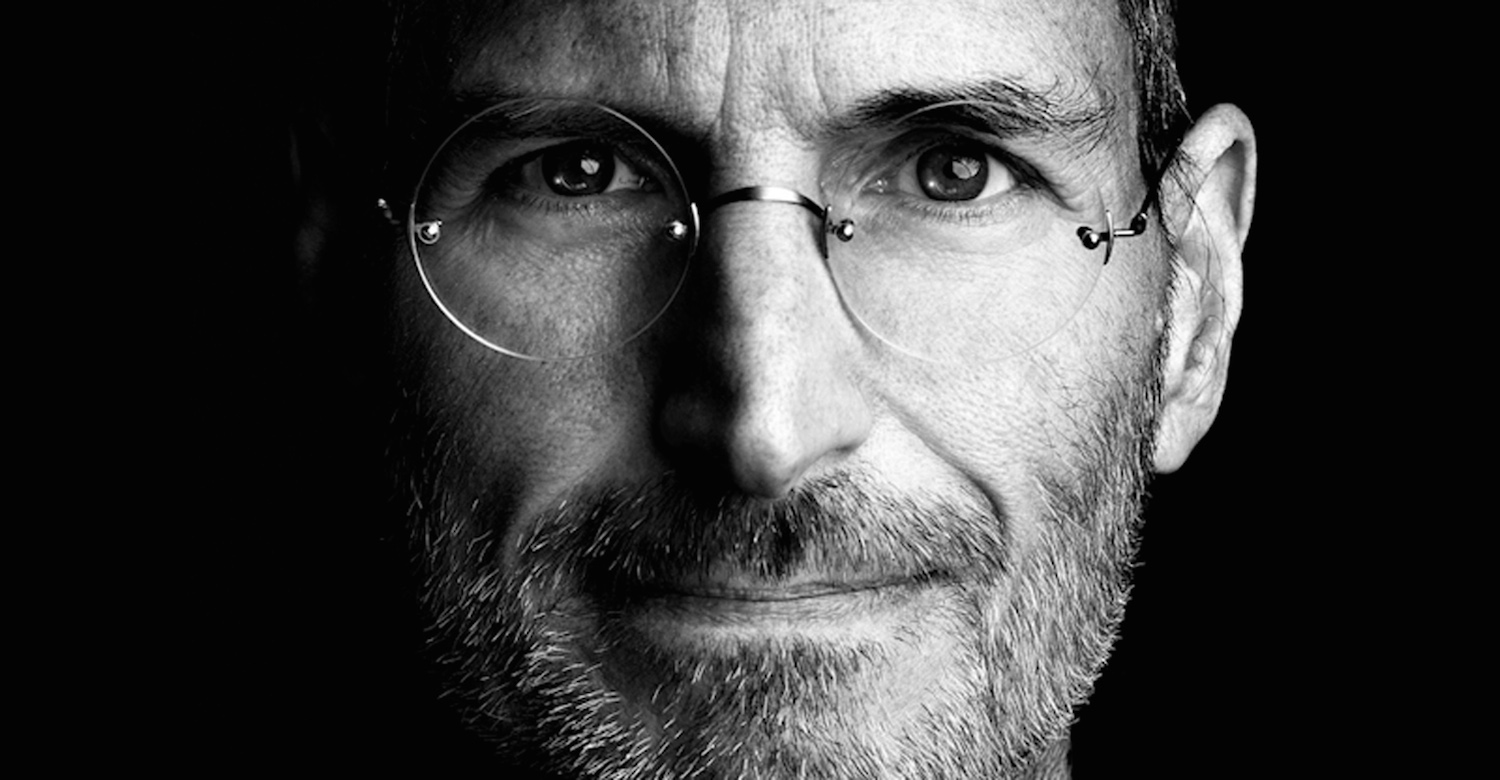
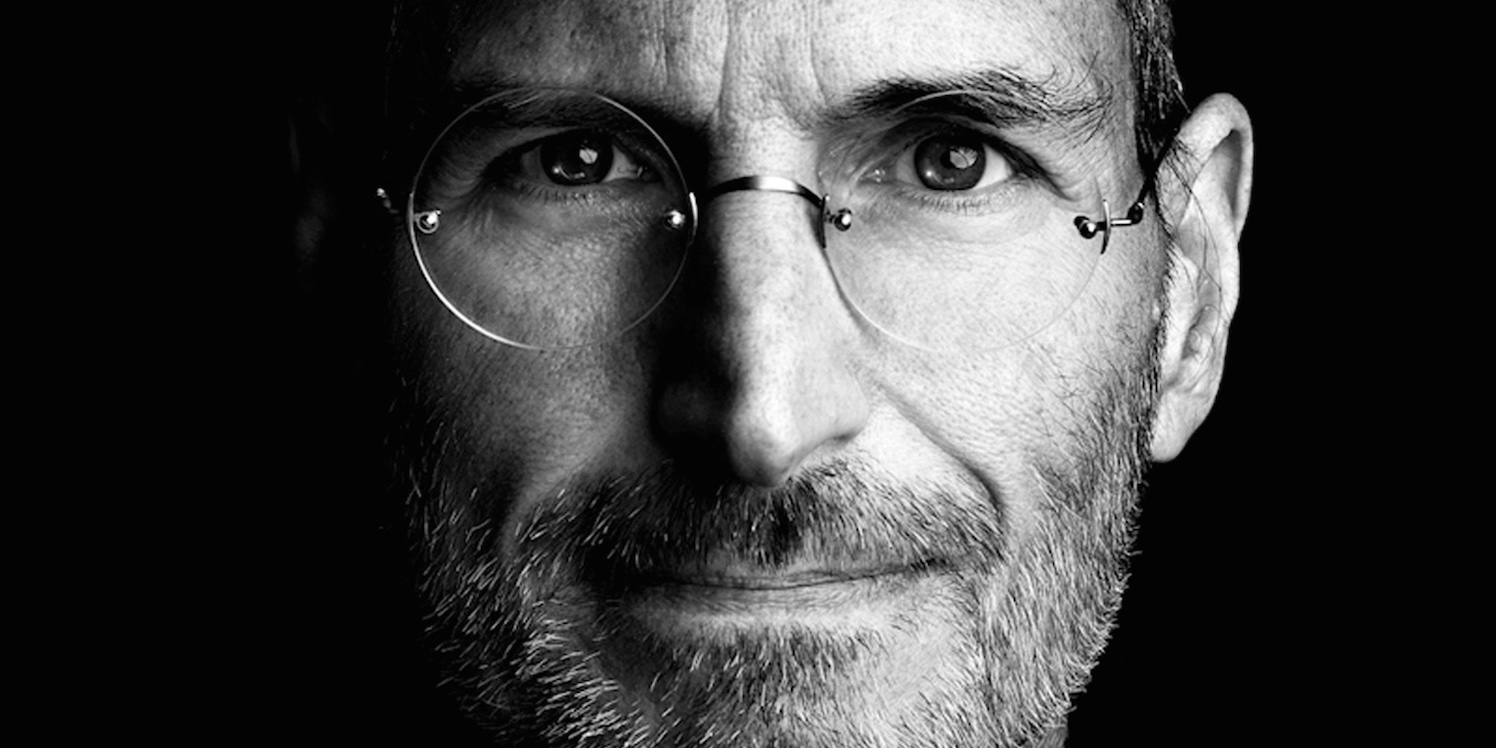
tweaked posts

diff --git a/components/CoverImage.jsx b/components/CoverImage.jsx
@@ -16,10 +16,10 @@ export const CoverImage = ({
       <Image
         src={src}
         alt={`Cover Image for ${title}`}
-        layout='intrinsic' // intrinsic, fill, responsive
+        layout='responsive' // intrinsic, fill, responsive
         width={width}
         height={height}
-        // sizes={[335, 460, 546, 600, 728, 984, 1240, 1496]}
+        sizes='70vw'
         priority={priority ? priority : false}
         placeholder={placeholder ? placeholder : 'empty'}
         blurDataURL={blurDataURL ? blurDataURL : ''}

diff --git a/components/PostPreview.jsx b/components/PostPreview.jsx
@@ -35,7 +35,7 @@ export const PostPreview = ({
   return (
     <div ref={ref}>
       <div className='mb-5'>
-        <CoverImage slug={slug} title={title} src={coverImage} width={556} height={278} />
+        <CoverImage slug={slug} title={title} src={coverImage} width={708} height={354} />
       </div>
       <h3 className='text-3xl mb-3 leading-snug'>
         <Link as={`/posts/${slug}`} href='/posts/[slug]'>

diff --git a/next.config.js b/next.config.js
@@ -9,7 +9,7 @@ module.exports = {
   images: {
     formats: ['image/avif', 'image/webp'],
     minimumCacheTTL: 86400,
-    // deviceSizes: [335, 460, 546, 600, 728, 984, 1240, 1496],
+    deviceSizes: [335, 460, 546, 600, 728, 984, 1240, 1496],
     // imageSizes: [16, 32, 48, 64, 96, 128, 256, 384],
     // domains: [],
   },
